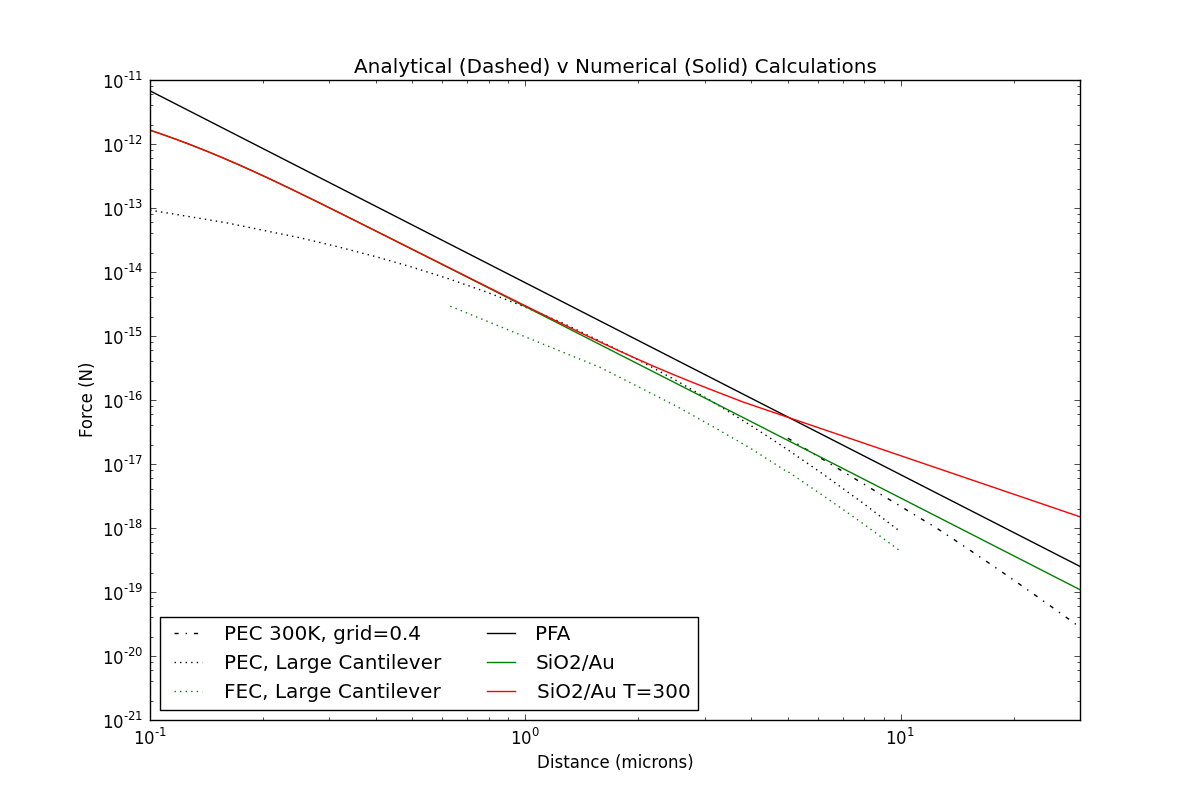
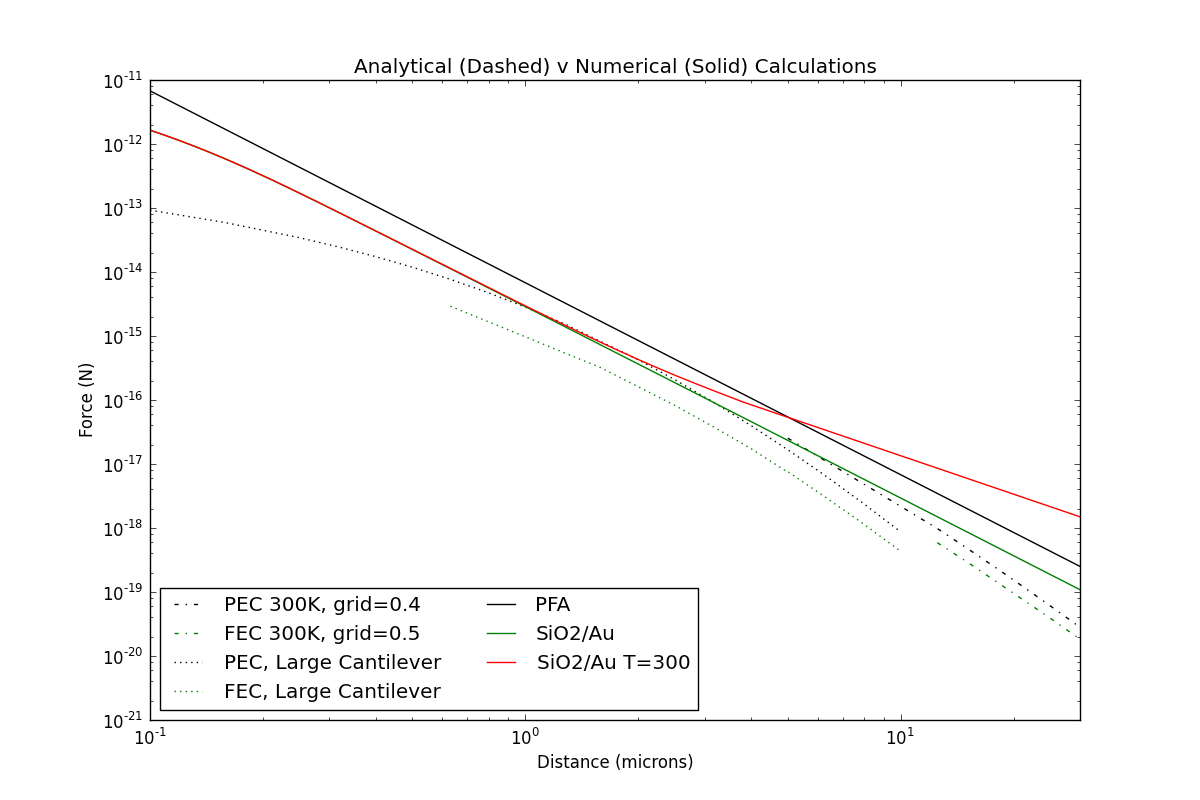
more results, figure

Changed region(s): [[0.1233, 0.7188, 0.5858, 0.875]]

diff --git a/casimir/scuffCode/CubeSphereBest/compare.py b/casimir/scuffCode/CubeSphereBest/compare.py
@@ -14,6 +14,18 @@ d1t=d1t[inds]
 f1t=f1t[inds]
 g1t=g1t[inds]
 
+d2t,g2t,e2t,ee2t,f2t,ef2t,s2t=numpy.loadtxt("combined_results_temp.txt",unpack=True,skiprows=1)
+f2t=-f2t*31.6e-15
+inds=argsort(d2t)
+d2t=d2t[inds]
+f2t=f2t[inds]
+g2t=g2t[inds]
+s2t=s2t[inds]
+inds=numpy.where(s2t == 0)
+d2t=d2t[inds]
+f2t=f2t[inds]
+g2t=g2t[inds]
+
 d3,e3,ee3,f3,ef3=numpy.loadtxt("../Comparison/full.txt",unpack=True)
 f3=-f3*31.6e-15
 inds=argsort(d3)
@@ -38,6 +50,10 @@ inds = numpy.where(g1t == gst)
 plot(d1t[inds],f1t[inds],'-.',label="PEC 300K, grid="+str(gst),color="black")
 inds = numpy.where(g1t == 0.4)
 #plot(d1t[inds],f1t[inds],'-.',label="PEC 300K, grid="+str(0.4),color="orange")
+
+gs=numpy.min(g2t)
+inds = numpy.where(g2t == gs)
+plot(d2t[inds],f2t[inds],'-.',label="FEC 300K, grid="+str(gs),color="green")
 
 plot(d4,f4,':',label="PEC, Large Cantilever",color="black")
 plot(d3,f3,':',label="FEC, Large Cantilever",color="green")
